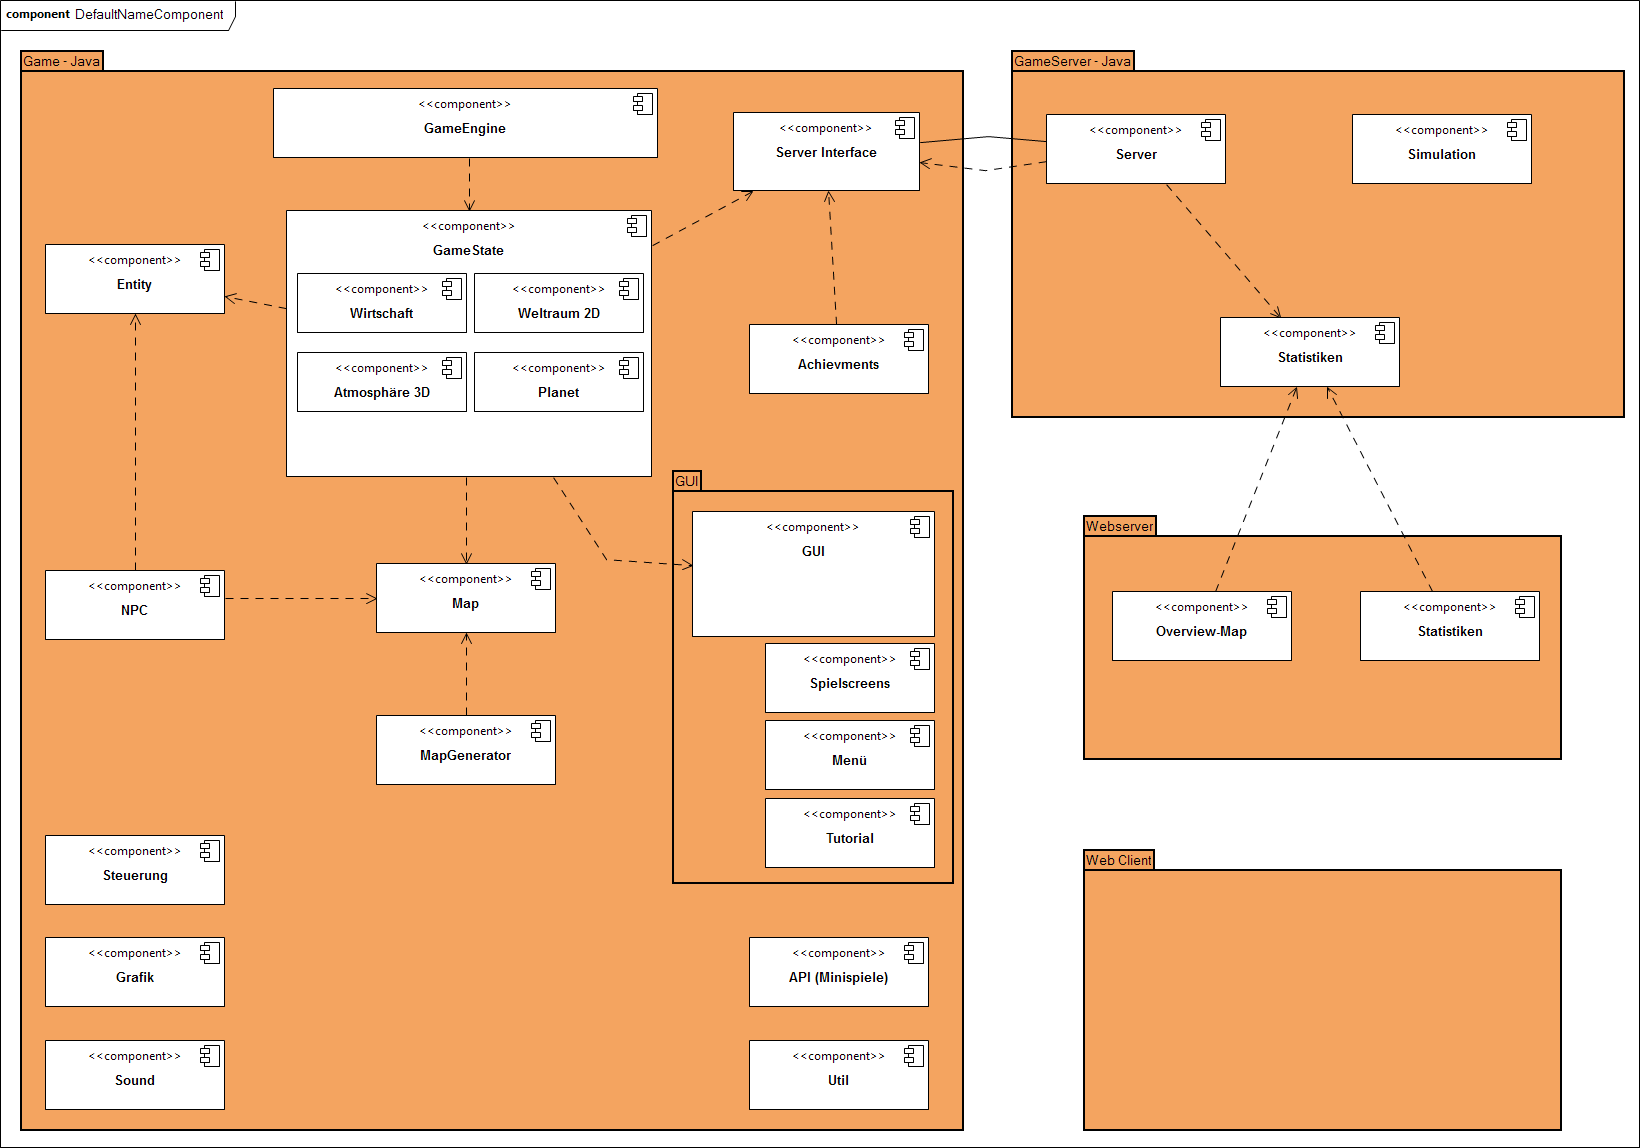
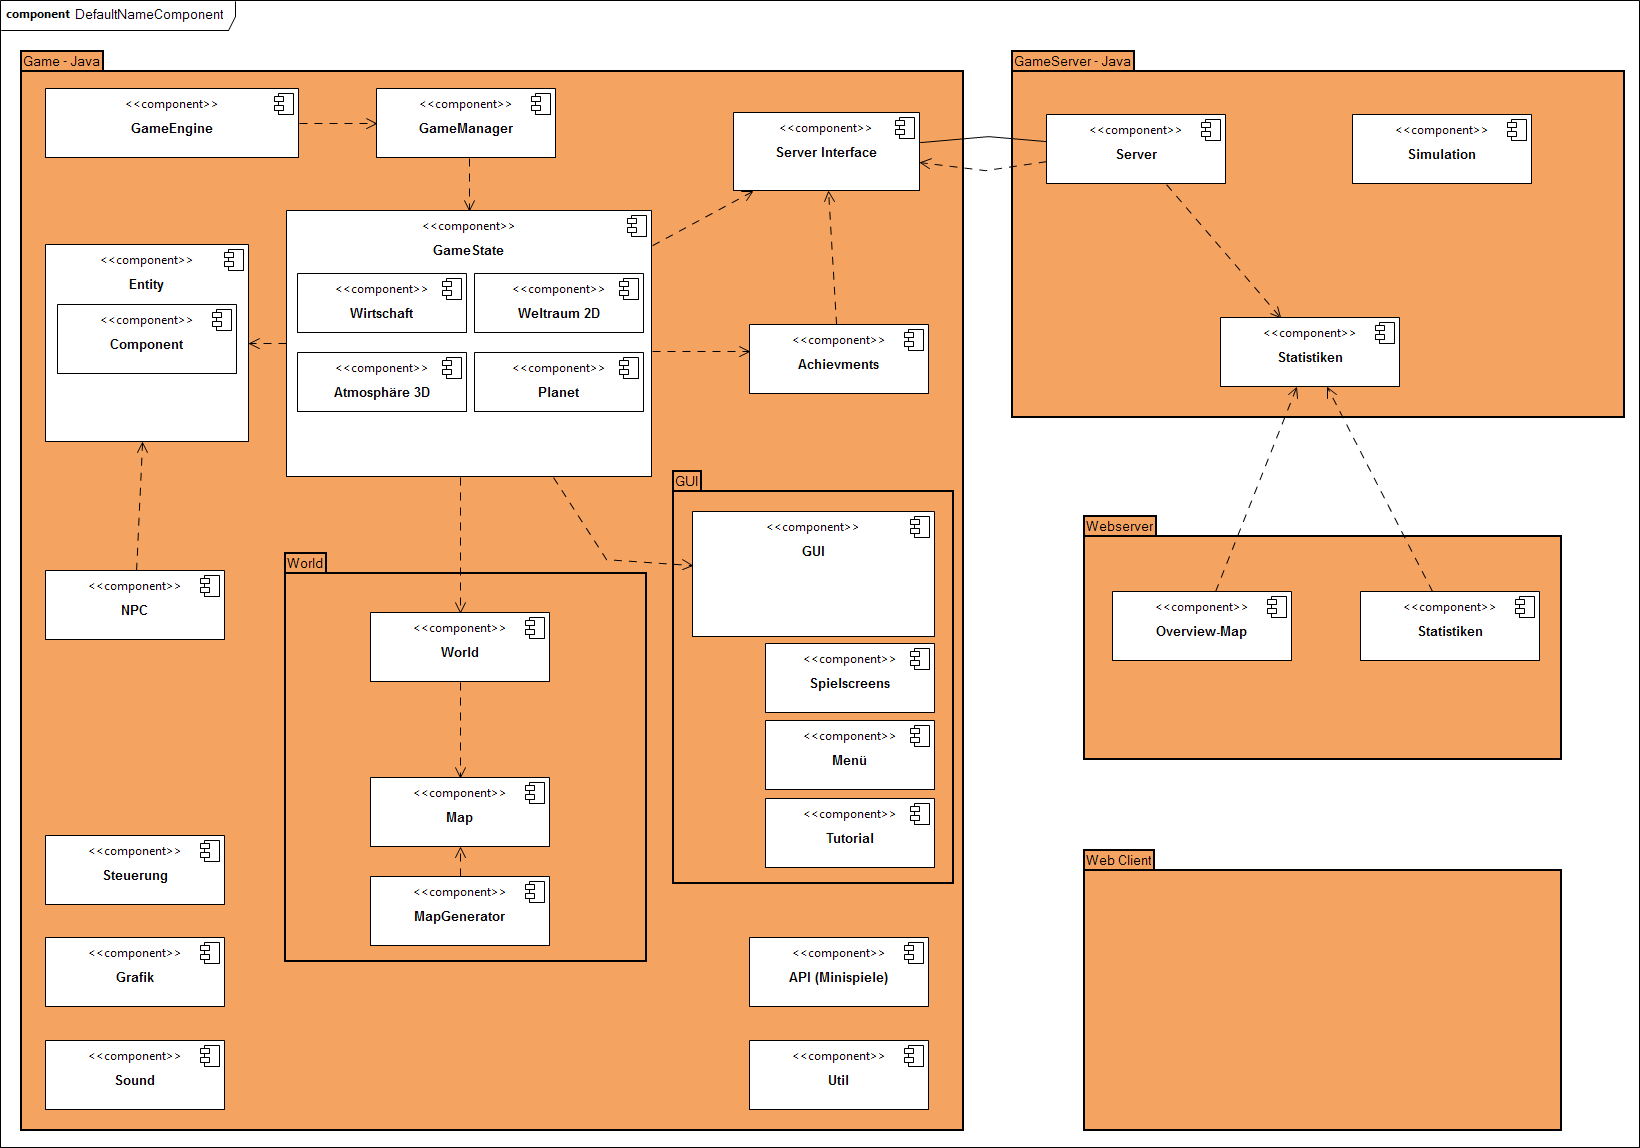
#14 created GameManager for managing states of Gamestates (active/inactive/background)

Changed region(s): [[0.1555, 0.4878, 0.3421, 0.8232], [0.0, 0.061, 0.4043, 0.1524], [0.0, 0.2134, 0.1555, 0.3963]]

diff --git a/game/TMT Client/src/net/tmt/game/manager/GameManager.java b/game/TMT Client/src/net/tmt/game/manager/GameManager.java
@@ -1,0 +1,135 @@
+package net.tmt.game.manager;
+
+import java.util.List;
+import java.util.concurrent.CopyOnWriteArrayList;
+
+import net.tmt.game.interfaces.Renderable;
+import net.tmt.game.interfaces.Updateable;
+import net.tmt.gamestate.AbstractGamestate;
+import net.tmt.gamestate.DummyGamestate;
+import net.tmt.gamestate.SpaceGamestate;
+import net.tmt.gfx.Graphics;
+
+/**
+ * Manages the Gamestates. (pause/resume, active/inactive/background Gamestates)
+ * 
+ * @author Tim Schmiedl (Cyboot)
+ */
+public class GameManager implements Updateable, Renderable {
+	private static GameManager		instance;
+
+	/** all inactive, but yet not deleted Gamestates */
+	private List<AbstractGamestate>	inactivedGamestates		= new CopyOnWriteArrayList<>();
+	/** all updated, but not visible Gamestates */
+	private List<AbstractGamestate>	backgroundGamestates	= new CopyOnWriteArrayList<>();
+	/** the active and visible Gamestate */
+	private AbstractGamestate		activeGamestate;
+
+
+	public static GameManager init() {
+		instance = new GameManager();
+
+		instance.start(SpaceGamestate.getInstance());
+		instance.background(new DummyGamestate());
+		return instance;
+	}
+
+	@Override
+	public void render(final Graphics g) {
+		activeGamestate.render(g);
+	}
+
+	@Override
+	public void update(final double delta) {
+		activeGamestate.update(delta);
+
+		for (AbstractGamestate a : backgroundGamestates)
+			a.update(delta);
+	}
+
+	/**
+	 * Resumes the Gamestate for the given class.
+	 * 
+	 * @param clazz
+	 *            of the Gamestate to continue
+	 * @throws IllegalArgumentException
+	 *             if no such Gamestate/class was paused before
+	 */
+	public void resume(final Class<AbstractGamestate> clazz) {
+		for (AbstractGamestate a : inactivedGamestates) {
+			if (a.getClass().equals(clazz)) {
+				activeGamestate = a;
+				a.setState(AbstractGamestate.ACTIVE);
+				return;
+			}
+		}
+		throw new IllegalArgumentException("Cannot resume '" + clazz + "' because it was not paused before!");
+	}
+
+	/**
+	 * pauses the given Gamestate (mark it as inactive, so it can be resumed
+	 * afterwards)
+	 * 
+	 * @param gamestate
+	 */
+	public void pause(final AbstractGamestate gamestate) {
+		gamestate.setState(AbstractGamestate.PAUSED);
+		backgroundGamestates.remove(gamestate);
+
+		if (gamestate == activeGamestate) {
+			activeGamestate = null;
+		}
+
+		// don't duplicate Gamestate in list
+		if (!inactivedGamestates.contains(gamestate))
+			inactivedGamestates.add(gamestate);
+	}
+
+	/**
+	 * makes the given Gamestate to a background Gamestate
+	 * 
+	 * @param gamestate
+	 */
+	public void background(final AbstractGamestate gamestate) {
+		gamestate.setState(AbstractGamestate.BACKGROUND);
+		inactivedGamestates.remove(gamestate);
+
+		if (gamestate == activeGamestate) {
+			activeGamestate = null;
+		}
+
+		// don't duplicate Gamestate in list
+		if (!backgroundGamestates.contains(gamestate))
+			backgroundGamestates.add(gamestate);
+	}
+
+	/**
+	 * stops and deletes the given Gamestate. It cannot resumed afterwards
+	 * 
+	 * @param gamestate
+	 */
+	public void delete(final AbstractGamestate gamestate) {
+		inactivedGamestates.remove(gamestate);
+		backgroundGamestates.remove(gamestate);
+
+		if (activeGamestate == gamestate)
+			activeGamestate = null;
+	}
+
+	/**
+	 * starts the given Gamestate as the one active Gamestate
+	 * 
+	 * @param gamestate
+	 */
+	public void start(final AbstractGamestate gamestate) {
+		gamestate.setState(AbstractGamestate.ACTIVE);
+		inactivedGamestates.remove(gamestate);
+		backgroundGamestates.remove(gamestate);
+
+		activeGamestate = gamestate;
+	}
+
+	public static GameManager getInstance() {
+		return instance;
+	}
+}

diff --git a/game/TMT Client/src/net/tmt/game/GameEngine.java b/game/TMT Client/src/net/tmt/game/GameEngine.java
@@ -4,11 +4,8 @@ import static org.lwjgl.opengl.GL11.*;
 
 import java.io.FileNotFoundException;
 import java.io.IOException;
-import java.util.ArrayList;
-import java.util.List;
 
-import net.tmt.gamestate.AbstractGamestate;
-import net.tmt.gamestate.SpaceGamestate;
+import net.tmt.game.manager.GameManager;
 import net.tmt.gfx.Graphics;
 import net.tmt.gfx.Sprite;
 import net.tmt.util.ConfigUtil;
@@ -22,12 +19,12 @@ import org.lwjgl.opengl.DisplayMode;
 import org.lwjgl.opengl.GL11;
 
 public class GameEngine {
-	private final FPS				fps			= new FPS();
-	private List<AbstractGamestate>	gamestates	= new ArrayList<>();
-	private Graphics				graphics;
+	private final FPS	fps	= new FPS();
+	private GameManager	gameManager;
+	private Graphics	graphics;
 
-	public static int				WIDTH;
-	public static int				HEIGHT;
+	public static int	WIDTH;
+	public static int	HEIGHT;
 
 	public void start() throws LWJGLException {
 		initConfig();
@@ -64,8 +61,7 @@ public class GameEngine {
 	}
 
 	private void update(final double delta) {
-		for (AbstractGamestate a : gamestates)
-			a.update(delta);
+		gameManager.update(delta);
 	}
 
 	private void initNonGL() {
@@ -75,10 +71,9 @@ public class GameEngine {
 			// TODO Auto-generated catch block
 			e.printStackTrace();
 		}
-		Graphics.init();
-		graphics = Graphics.getInstance();
+		graphics = Graphics.init();
 
-		gamestates.add(SpaceGamestate.getInstance());
+		gameManager = GameManager.init();
 
 		try {
 			DebugUtil.setUser(ConfigUtil.getString("debug.User"));
@@ -106,8 +101,7 @@ public class GameEngine {
 	private void render() {
 		glClear(GL_COLOR_BUFFER_BIT);
 
-		for (AbstractGamestate a : gamestates)
-			a.render(graphics);
+		gameManager.render(graphics);
 	}
 
 	private static class FPS {

diff --git a/game/TMT Client/src/net/tmt/gamestate/DummyGamestate.java b/game/TMT Client/src/net/tmt/gamestate/DummyGamestate.java
@@ -4,20 +4,23 @@ import net.tmt.entity.ControlledSpaceShip;
 import net.tmt.gfx.Graphics;
 import net.tmt.gfx.Sprite;
 import net.tmt.map.World;
+import net.tmt.util.CountdownTimer;
 import net.tmt.util.Vector2d;
 
 import org.lwjgl.util.Color;
 
 public class DummyGamestate extends AbstractGamestate {
+	private CountdownTimer		timerPause	= new CountdownTimer(2);
+
 	private Sprite				sprite_ship1;
 	private Sprite				sprite_ship2;
 	private Sprite				sprite_ship3;
 	private Sprite				sprite_ship4;
 	private Sprite				sprite_ship5;
 
-	private ControlledSpaceShip	ship	= new ControlledSpaceShip();
+	private ControlledSpaceShip	ship		= new ControlledSpaceShip();
 
-	private World				world	= World.getInstance();
+	private World				world		= World.getInstance();
 
 	public DummyGamestate() {
 		sprite_ship1 = new Sprite("ship_double_64");
@@ -38,6 +41,14 @@ public class DummyGamestate extends AbstractGamestate {
 		sprite_ship5.rotate(delta * 36);
 
 		ship.update(delta, null);
+
+		if (timerPause.isTimeleft(delta)) {
+			if (getState() == ACTIVE) {
+				gameManager.background(this);
+				gameManager.start(SpaceGamestate.getInstance());
+			} else
+				gameManager.start(this);
+		}
 	}
 
 	@Override

diff --git a/game/TMT Client/src/net/tmt/gamestate/AbstractGamestate.java b/game/TMT Client/src/net/tmt/gamestate/AbstractGamestate.java
@@ -1,10 +1,18 @@
 package net.tmt.gamestate;
 
-import net.tmt.game.Renderable;
-import net.tmt.game.Updateable;
+import net.tmt.game.interfaces.Renderable;
+import net.tmt.game.interfaces.Updateable;
+import net.tmt.game.manager.GameManager;
 import net.tmt.gfx.Graphics;
 
 public abstract class AbstractGamestate implements Updateable, Renderable {
+	public static final int	ACTIVE		= 0;
+	public static final int	PAUSED		= 1;
+	public static final int	BACKGROUND	= 2;
+
+	private int				state;
+	protected GameManager	gameManager	= GameManager.getInstance();
+
 
 	@Override
 	public abstract void update(final double delta);
@@ -12,4 +20,22 @@ public abstract class AbstractGamestate implements Updateable, Renderable {
 	@Override
 	public abstract void render(Graphics g);
 
+	public int getState() {
+		return state;
+	}
+
+	public void setState(final int state) {
+		int old = this.state;
+		this.state = state;
+		onStateChanged(old, state);
+	}
+
+	/**
+	 * called if the state is changed
+	 * 
+	 * @param oldState
+	 * @param newState
+	 */
+	protected void onStateChanged(final int oldState, final int newState) {
+	}
 }

diff --git a/game/TMT Client/src/net/tmt/entity/Entity2D.java b/game/TMT Client/src/net/tmt/entity/Entity2D.java
@@ -3,8 +3,8 @@ package net.tmt.entity;
 import net.tmt.entity.component.Component;
 import net.tmt.entity.component.ComponentDispatcher;
 import net.tmt.entity.component.RenderComponent;
-import net.tmt.game.EntityManager;
-import net.tmt.game.Renderable;
+import net.tmt.game.interfaces.Renderable;
+import net.tmt.game.manager.EntityManager;
 import net.tmt.gfx.Graphics;
 import net.tmt.gfx.Sprite;
 import net.tmt.util.Vector2d;

diff --git a/game/TMT Client/src/net/tmt/map/World.java b/game/TMT Client/src/net/tmt/map/World.java
@@ -7,9 +7,9 @@ import net.tmt.entity.ControlledSpaceShip;
 import net.tmt.entity.Entity2D;
 import net.tmt.entity.Star;
 import net.tmt.entity.Waypoint;
-import net.tmt.game.EntityManager;
 import net.tmt.game.GameEngine;
-import net.tmt.game.Updateable;
+import net.tmt.game.interfaces.Updateable;
+import net.tmt.game.manager.EntityManager;
 import net.tmt.util.RandomUtil;
 import net.tmt.util.Vector2d;
 

diff --git a/game/TMT Client/src/net/tmt/entity/ControlledSpaceShip.java b/game/TMT Client/src/net/tmt/entity/ControlledSpaceShip.java
@@ -3,8 +3,8 @@ package net.tmt.entity;
 import net.tmt.entity.component.MoveComponent;
 import net.tmt.entity.component.ShieldComponent;
 import net.tmt.game.Controls;
-import net.tmt.game.EntityManager;
 import net.tmt.game.GameEngine;
+import net.tmt.game.manager.EntityManager;
 import net.tmt.gfx.Sprite;
 import net.tmt.util.CountdownTimer;
 import net.tmt.util.RandomUtil;

diff --git a/game/TMT Client/src/net/tmt/gamestate/SpaceGamestate.java b/game/TMT Client/src/net/tmt/gamestate/SpaceGamestate.java
@@ -3,8 +3,8 @@ package net.tmt.gamestate;
 import net.tmt.entity.ControlledSpaceShip;
 import net.tmt.entity.npc.NPCCargoShip;
 import net.tmt.entity.npc.NPCTransporterShip;
-import net.tmt.game.EntityManager;
 import net.tmt.game.GameEngine;
+import net.tmt.game.manager.EntityManager;
 import net.tmt.gfx.Graphics;
 import net.tmt.map.World;
 import net.tmt.util.RandomUtil;

diff --git a/game/TMT Client/src/net/tmt/game/manager/EntityManager.java b/game/TMT Client/src/net/tmt/game/manager/EntityManager.java
@@ -1,4 +1,4 @@
-package net.tmt.game;
+package net.tmt.game.manager;
 
 import java.util.ArrayList;
 import java.util.HashMap;
@@ -7,6 +7,8 @@ import java.util.Map;
 import java.util.Map.Entry;
 
 import net.tmt.entity.Entity2D;
+import net.tmt.game.interfaces.Renderable;
+import net.tmt.game.interfaces.Updateable;
 import net.tmt.gfx.Graphics;
 
 /**

diff --git a/game/TMT Client/src/net/tmt/entity/component/ComponentDispatcher.java b/game/TMT Client/src/net/tmt/entity/component/ComponentDispatcher.java
@@ -6,8 +6,8 @@ import java.util.List;
 import java.util.Map;
 
 import net.tmt.entity.Entity2D;
-import net.tmt.game.Renderable;
-import net.tmt.game.Updateable;
+import net.tmt.game.interfaces.Renderable;
+import net.tmt.game.interfaces.Updateable;
 import net.tmt.gfx.Graphics;
 
 public class ComponentDispatcher implements Renderable, Updateable {

diff --git a/game/TMT Client/src/net/tmt/entity/npc/NPCSpaceShip.java b/game/TMT Client/src/net/tmt/entity/npc/NPCSpaceShip.java
@@ -3,7 +3,7 @@ package net.tmt.entity.npc;
 import net.tmt.entity.Entity2D;
 import net.tmt.entity.component.Move2TargetComponent;
 import net.tmt.entity.component.MoveComponent;
-import net.tmt.game.EntityManager;
+import net.tmt.game.manager.EntityManager;
 import net.tmt.gfx.Graphics;
 import net.tmt.map.World;
 import net.tmt.util.Vector2d;

diff --git a/game/TMT Client/src/net/tmt/gfx/Graphics.java b/game/TMT Client/src/net/tmt/gfx/Graphics.java
@@ -201,9 +201,10 @@ public class Graphics {
 
 	private static Graphics	instance;
 
-	public static void init() {
+	public static Graphics init() {
 		instance = new Graphics();
 		instance.whiteTexture = new Sprite("white").getTexture();
+		return instance;
 	}
 
 	public static Graphics getInstance() {
